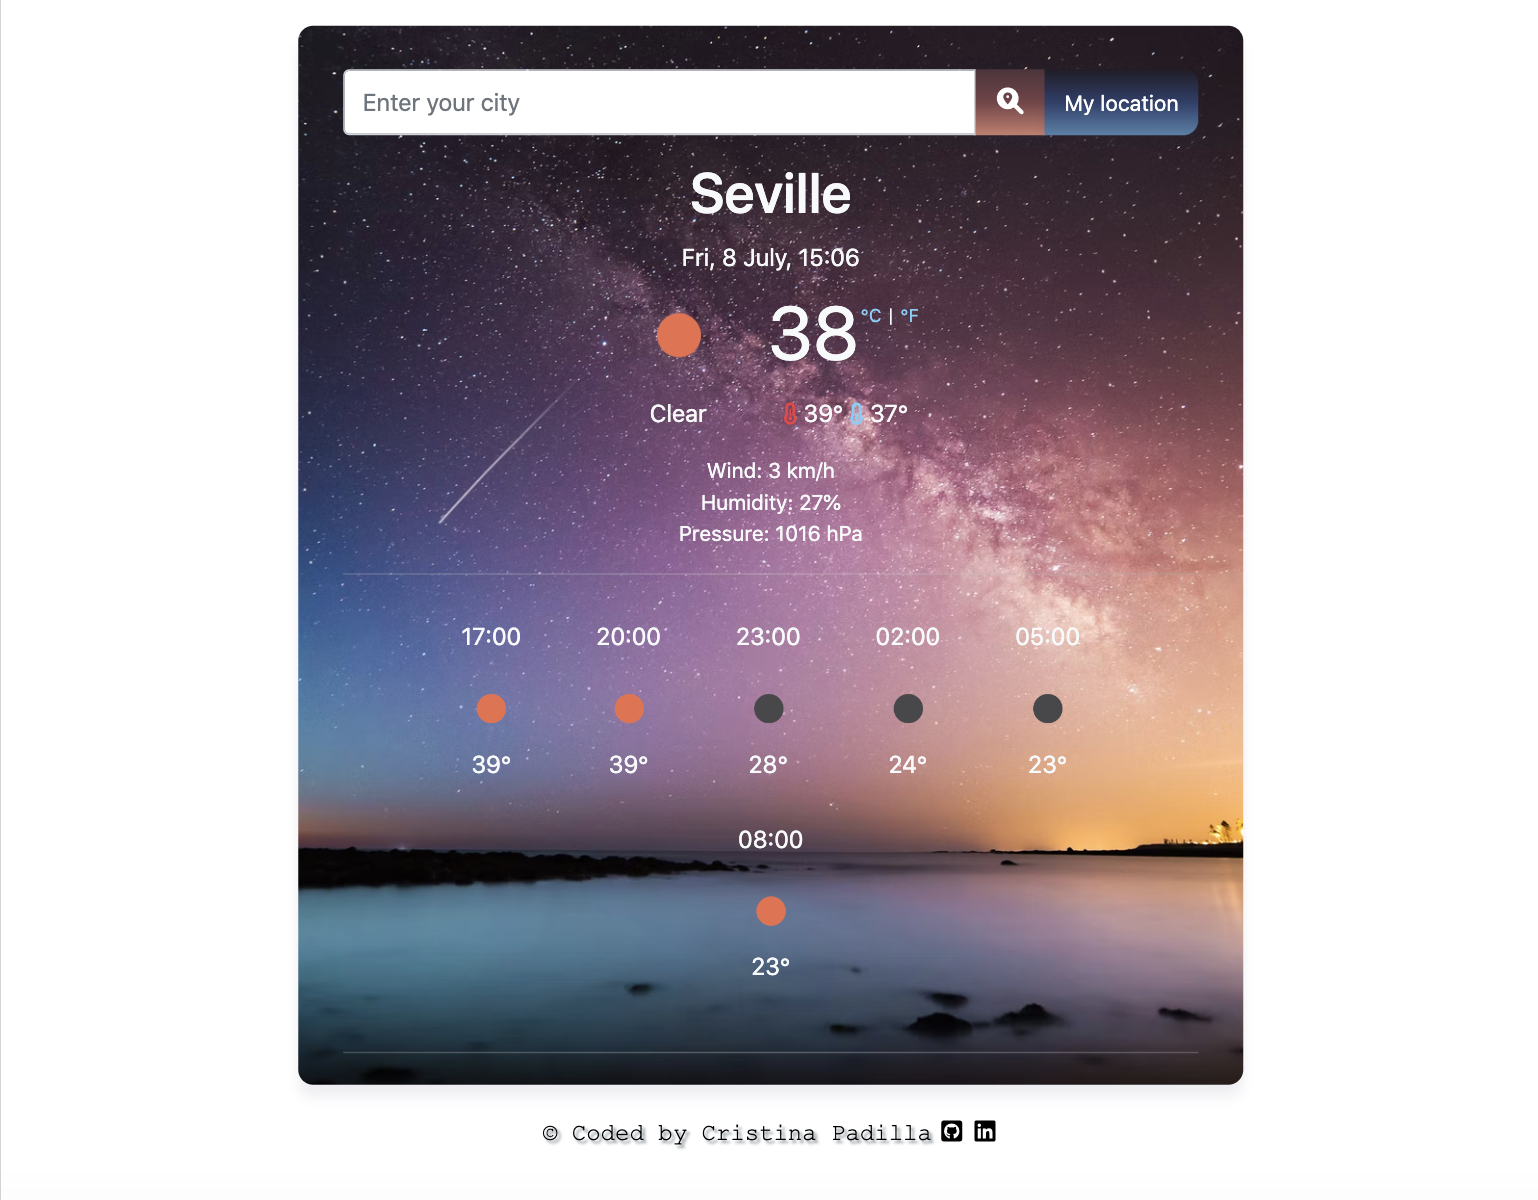
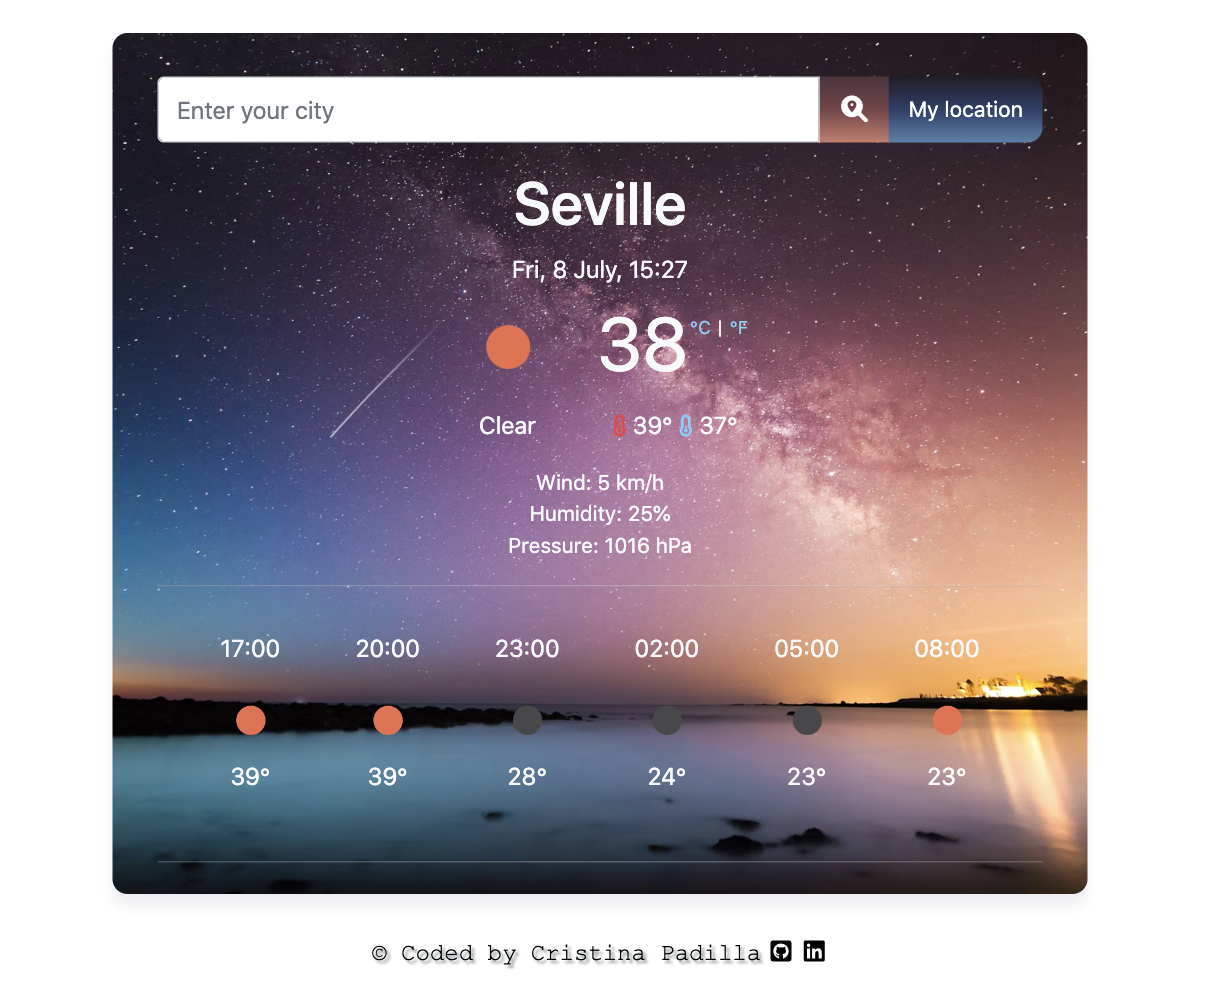
screenshot preview updated

diff --git a/src/styles.css b/src/styles.css
@@ -4,7 +4,7 @@ body {
 }
 
 .weather-app {
-  max-width: 630px;
+  max-width: 650px;
   margin: 2% auto;
   padding: 5px 30px;
   border-radius: 10px;
